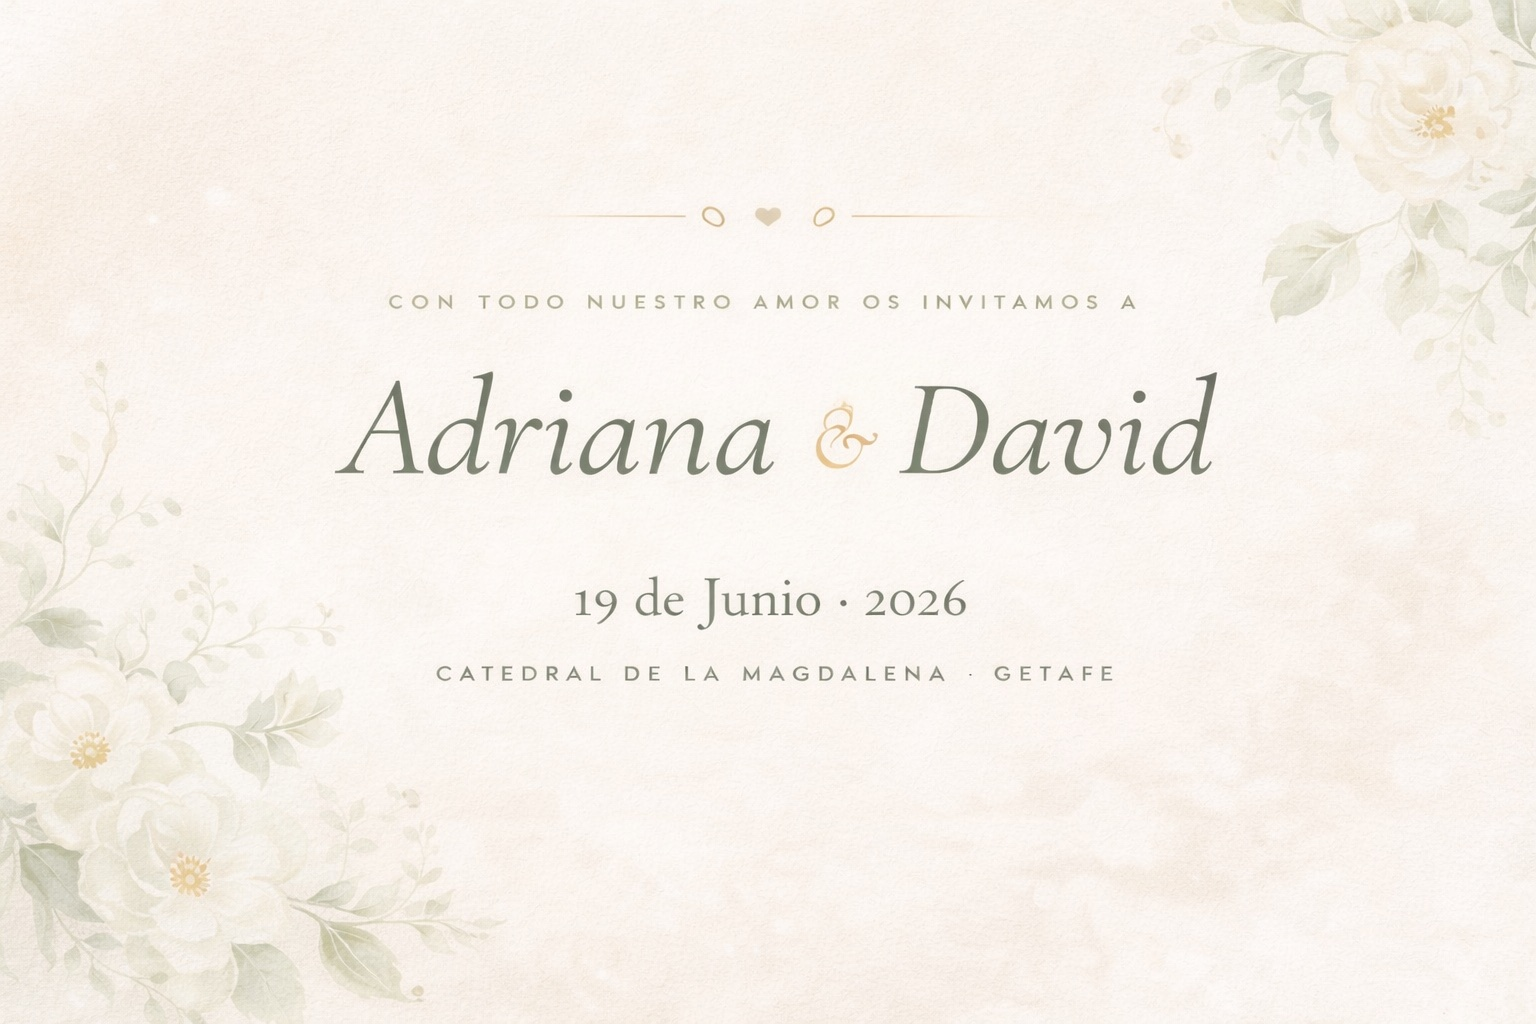
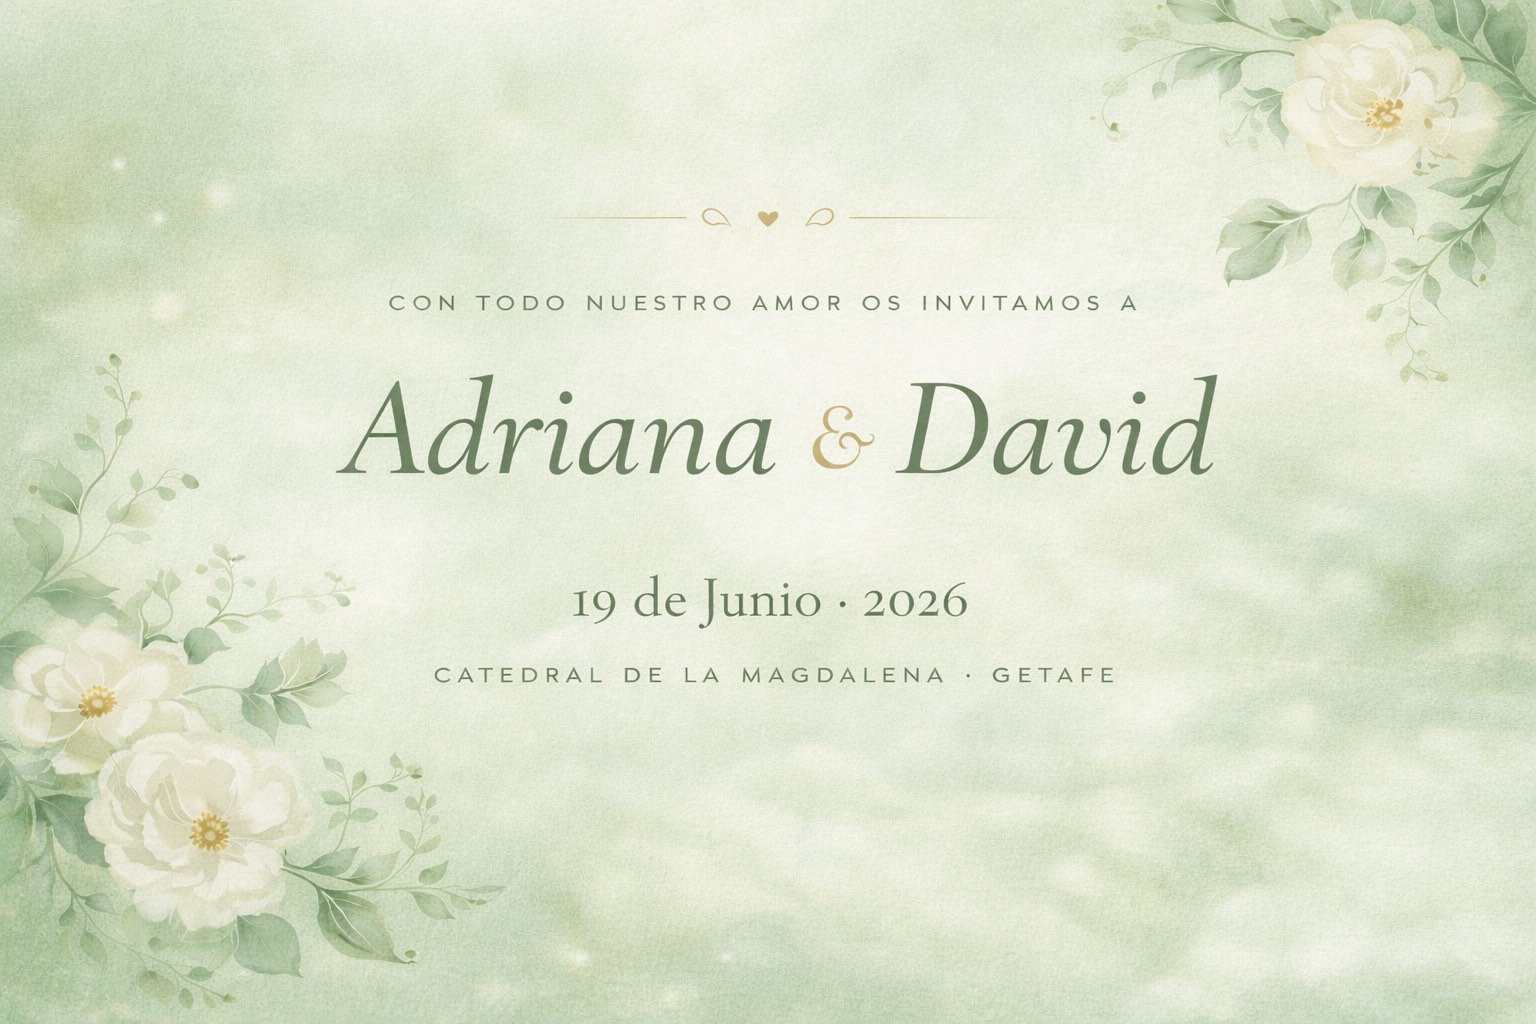
Actualiza hero y OG con nuevas imágenes
Convierte og.png a og.jpg (255KB) para compatibilidad WhatsApp.
Bump ?v=4 para forzar refresco en previews.

diff --git a/index.html b/index.html
@@ -10,7 +10,7 @@
   <meta property="og:url"               content="https://boda-adriana-david.vercel.app/">
   <meta property="og:title"             content="Adriana &amp; David · 19 de Junio, 2026">
   <meta property="og:description"       content="Nos casamos. Queremos compartir este día tan especial contigo.">
-  <meta property="og:image"             content="https://boda-adriana-david.vercel.app/og.jpg?v=3">
+  <meta property="og:image"             content="https://boda-adriana-david.vercel.app/og.jpg?v=4">
   <meta property="og:image:type"        content="image/jpeg">
   <meta property="og:image:width"       content="1200">
   <meta property="og:image:height"      content="630">
@@ -22,7 +22,7 @@
   <meta name="twitter:card"             content="summary_large_image">
   <meta name="twitter:title"            content="Adriana &amp; David · 19 de Junio, 2026">
   <meta name="twitter:description"      content="Nos casamos. Queremos compartir este día tan especial contigo.">
-  <meta name="twitter:image"            content="https://boda-adriana-david.vercel.app/og.jpg?v=3">
+  <meta name="twitter:image"            content="https://boda-adriana-david.vercel.app/og.jpg?v=4">
 
   <title>Adriana &amp; David · 19 de Junio, 2026</title>
 
